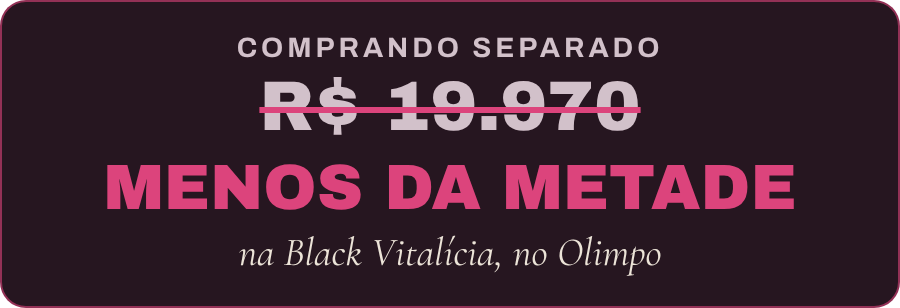
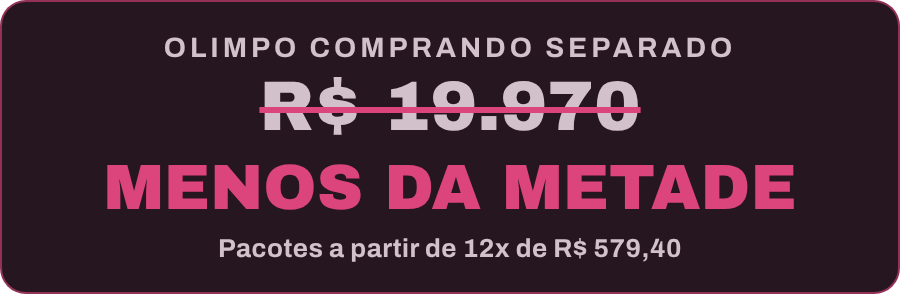
Quanto vale: frases fortes em letra animada ao lado do Gabriel; cartão de preço com pacotes a partir de 12x R$ 579,40
Claude-Session: https://claude.ai/code/session_01KgesPtUiFaTyPjQzLX5smy

diff --git a/fsa/campanha-black/video-quanto-vale/pecas/pills.html b/fsa/campanha-black/video-quanto-vale/pecas/pills.html
@@ -10,6 +10,7 @@ html,body{margin:0;background:transparent}
 .preco .b{font-family:ArchB;font-size:70px;margin-top:6px}
 .preco .b s{color:#d2c1ca;text-decoration-color:#DC447C;text-decoration-thickness:6px}
 .preco .c{font-family:ArchB;font-size:64px;color:#DC447C;margin-top:8px}
+.preco .e{font-family:Arch;font-weight:700;font-size:26px;color:#d2c1ca;margin-top:12px;letter-spacing:.02em}
 .preco .d{font-family:CormI;font-size:40px;color:#ece4d8;margin-top:6px}
 .vit{display:inline-block;margin:14px;padding:18px 36px;border-radius:999px;background:#fff;color:#14020D;font-family:ArchB;font-size:48px;letter-spacing:.06em}
 </style></head><body>
@@ -22,5 +23,5 @@ html,body{margin:0;background:transparent}
 <span class="p" id="ale">ALERGIAS ALIMENTARES</span>
 <span class="p" id="ava">FORMAÇÃO AVANÇADA</span>
 <span class="vit" id="vit">∞ VITALÍCIO</span>
-<div class="preco" id="preco"><div class="a">COMPRANDO SEPARADO</div><div class="b"><s>R$ 19.970</s></div><div class="c">MENOS DA METADE</div><div class="d">na Black Vitalícia, no Olimpo</div></div>
+<div class="preco" id="preco"><div class="a">OLIMPO COMPRANDO SEPARADO</div><div class="b"><s>R$ 19.970</s></div><div class="c">MENOS DA METADE</div><div class="e">Pacotes a partir de 12x de R$ 579,40</div></div>
 </body></html>

diff --git a/fsa/campanha-black/video-quanto-vale/monta.py b/fsa/campanha-black/video-quanto-vale/monta.py
@@ -18,10 +18,17 @@ BL=[
  (1.12,None,[(130.75,136.40,'A criança que reage a tudo que come, ou aquele adulto que tá sempre passando mal depois das refeições.',0),(137.05,138.60,'Alergias Alimentares.',0,P+'arte-ale.png')]),
  (1.00,None,[(146.00,149.20,'E o caso que junta tudo isso ao mesmo tempo:',0),(149.20,153.00,'Formação Avançada em Nutrição Funcional.',0,P+'arte-ava.png')]),
  (1.12,None,[(170.35,175.55,'Não é um curso, são formações completas pra enxergar o ser humano inteiro.',0)]),
- (1.00,None,[(192.70,195.35,'E agora com uma diferença: é vitalício.',0,P+'pill-vit.png'),(195.70,201.25,'Cada um desses casos pode chegar amanhã, na semana que vem ou daqui a cinco anos.',0),(205.45,207.95,'Quando chegar, a aula vai tá lá.',0)]),
+ (1.00,None,[(192.70,195.35,'E agora com uma diferença: é vitalício.',0),(195.70,201.25,'Cada um desses casos pode chegar amanhã, na semana que vem ou daqui a cinco anos.',0),(205.45,207.95,'Quando chegar, a aula vai tá lá.',0)]),
  (1.12,None,[(241.15,246.20,'Comprando as formações separadas, seria R$ 19.970.',0,P+'pill-preco.png'),(247.05,250.75,'Na Black Vitalícia, menos da metade.',0,P+'pill-preco.png'),(251.20,256.10,'Todas as formações tuas pra sempre, pro resto da tua vida.',0)]),
  (1.00,None,[(300.65,305.00,'Se tu já estudou na FSA, o teu valor é ainda mais especial.',0),(305.80,308.40,'15 dias de garantia incondicional.',0),(326.95,330.20,'O vitalício termina dia 31/10.',0)]+([(330.75,333.75,'Comenta BLACK26 que eu te mando o link.',0)] if VERSAO=='organico' else [('HOLD',2.2,330.20)])),
 ]
+# frases fortes: texto animado ao lado do Gabriel, linha a linha ('|' quebra, '*' = itálico grande)
+KIN={14.90:'QUANTO|*vale*|SABER|O QUE FAZER|COM CADA|*paciente?*',
+     18.85:'QUE ENTRA|NO TEU|*consultório?*',
+     170.35:'NÃO É|UM CURSO.|SÃO|*formações*|COMPLETAS.',
+     192.70:'E AGORA|É|*vitalício.*',
+     205.45:'QUANDO|CHEGAR,|*a aula*|VAI TÁ LÁ.',
+     251.20:'TODAS|AS FORMAÇÕES|*pra*|*sempre.*'}
 def vf(z):
     w=int(2160/z)//2*2;h=int(3840/z)//2*2;x=(2160-w)//2;y=int(min(max(0.40*3840-h/2,0),3840-h))
     return f"transpose=1,crop={w}:{h}:{x}:{y},scale=1080:1920:flags=lanczos,setsar=1,fps=30,format=yuv420p"
@@ -60,7 +67,7 @@ for bi,(z,balao,subs) in enumerate(BL):
             fcs.append(f"[{au}]atempo={V},atrim=0:{d},asetpts=PTS-STARTPTS,afade=t=in:d=0.02,afade=t=out:st={d-0.03:.3f}:d=0.03,apad,atrim=0:{d}[a]")
             if len(s)>4: linha.append(('arte',t,t+d,s[4]))
             cmd=['ffmpeg','-v','error','-y','-ss',str(a),'-t',str(b-a+0.3),'-i',SRC,'-filter_complex',';'.join(fcs),'-map','[v]','-map','[a]','-c:v','libx264','-crf','16','-preset','fast','-c:a','pcm_s16le','-ar','48000',out]
-            linha.append(('leg',t,t+d,txt))
+            linha.append(('kin',t,t+d,KIN[a],txt) if a in KIN else ('leg',t,t+d,txt))
             if txt.startswith('O vitalício termina'): FIM_T=t
             if selo: linha.append(('selo',t))
         import hashlib; hsh=hashlib.md5(' '.join(map(str,cmd)).encode()).hexdigest()[:8]; cache=out.replace('.mov',f'_{hsh}.mov'); cmd[-1]=cache
@@ -83,6 +90,19 @@ ass=["[Script Info]","ScriptType: v4.00+","PlayResX: 1080","PlayResY: 1920","Wra
 fim_t=[e[1] for e in linha if e[0]=='fim'][0]
 for e in linha:
     if e[0]=='leg' and e[1]<fim_t-0.05: ass.append(f"Dialogue: 0,{ts(e[1])},{ts(min(e[2],fim_t))},L,,0,0,0,,{{\\fad(60,60)}}{e[3]}")
+ass.insert(9,"Style: K,Archivo Black,96,&H00FFFFFF,&H00FFFFFF,&H00000000,&H00000000,0,0,0,0,100,100,0,0,1,0,0,7,0,0,0,1")
+for e in linha:
+    if e[0]!='kin': continue
+    T0,T1,ls=e[1],e[2],e[3].split('|'); tot=sum(len(l) for l in ls); acc=0; y=330; fr=e[4].lower(); pos=0
+    for l in ls:
+        w=l.replace('*','').lower().rstrip('.,?'); i=fr.find(w,pos)
+        if i>=0: pos=i+len(w); T=T0+(T1-T0)*max(i-1,0)/len(fr)
+        else: T=T0+0.85*(T1-T0)*acc/tot
+        acc+=len(l)
+        it=l.startswith('*'); tx=l.replace('*','')
+        fs=260 if it else 140; fn='Cormorant Garamond Light' if it else 'Archivo Black'
+        ass.append(f"Dialogue: 1,{ts(T)},{ts(T1)},K,,0,0,0,,{{\\pos(60,{y})\\fn{fn}\\fs{fs}\\i{int(it)}\\b{int(it)}\\bord6\\3c&H000000&\\3a&HA0&\\blur8\\fscx40\\fscy40\\alpha&HFF&\\t(0,200,\\fscx108\\fscy108\\alpha&H00&)\\t(200,320,\\fscx100\\fscy100)\\fad(0,120)}}{tx}")
+        y+=int(fs*(0.92 if it else 1.0))
 open(f'{TMP}/leg.ass','w').write('\n'.join(ass)+'\n')
 # overlays
 ins=['-i',f'{TMP}/base.mov']; fc=[]; prev='0:v'; k=1; pops=[]
